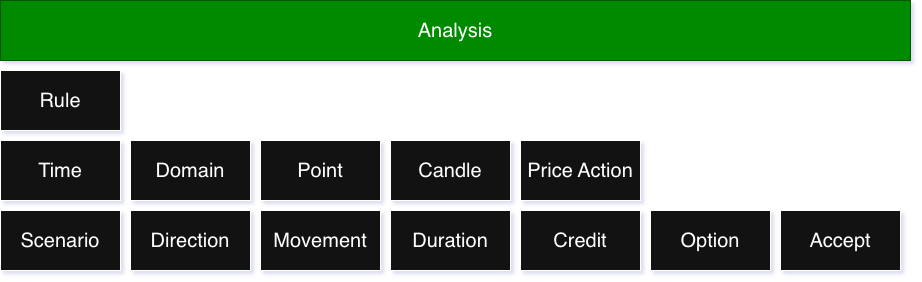
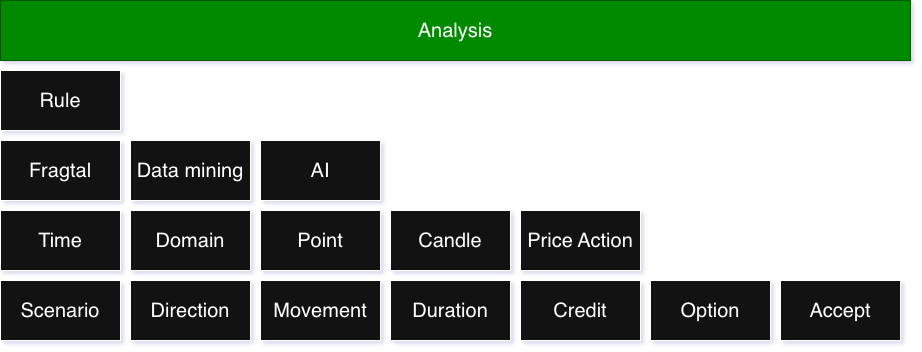
analysis

Changed region(s): [[0.0, 0.1702, 1.0, 0.9078], [0.0, 0.9362, 0.9718, 0.9929], [0.4555, 0.0567, 0.5466, 0.1418]]

diff --git a/analysis.md b/analysis.md
@@ -24,27 +24,40 @@
 دو طرف را محاسبه کن   
 روی یک طرف تعصب نداشته باش   
 
+<!--------------------------------------------------------------------------------- Vision -->
+<br><br>
+
+## Vision
+Fragtal  
+Data Mining  
+AI  
+
 <!--------------------------------------------------------------------------------- Domain -->
 <br><br>
 
-## Domain
+## Tools
+<!-------------------------------- Time -->
+### Time
+Market
+```
+Asia / Frankfort / London / New York
+```
+
+<!-------------------------------- Domain -->
+### Domain
 HLB  
 FVG  
 Order Block  
 Rejection Block  
 
-<!--------------------------------------------------------------------------------- Point -->
-<br><br>
-
-## Point
+<!-------------------------------- Point -->
+### Point
 Low that make high  
 Open and close of Asia,London,Usa  
 Low and High of Asia,London,Usa  
 
-<!--------------------------------------------------------------------------------- Candle -->
-<br><br>
-
-## Candle
+<!-------------------------------- Candle -->
+### Candle
 Without Shadow  
 Chnage Of Character  
 